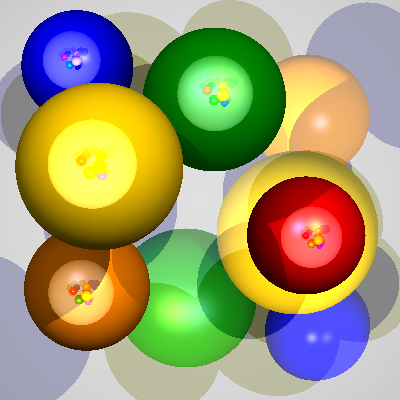
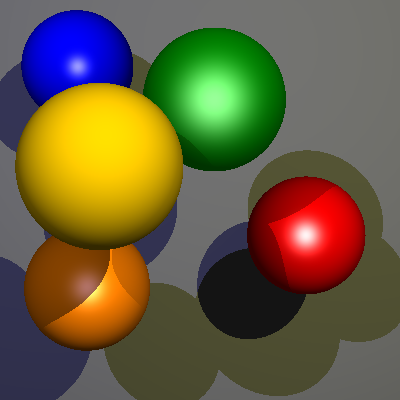
Functionify Part 2

diff --git a/RayTracer2/Code/scene.cpp b/RayTracer2/Code/scene.cpp
@@ -64,51 +64,53 @@ Color Scene::getColorAt(Material material, Point hit, Vector N, Vector V){
   for (auto lightPtr : lights) {
     Vector L = (lightPtr->position - hit).normalized();
     
-    // Detect if light in lights is line of sight with impact location
-    int isInShadow = 0;
-    Point shadowOffset = hit + (0.00001*N); // Offset to account for precision
-    Ray shadowRay = Ray(shadowOffset, L); // Create ray towards light from impact
-    ObjectPtr shadowObject = nullptr;
-    Hit min_hit(numeric_limits<double>::infinity(), Vector());
-
-    // For each object, detect if there is a collision
-    for (unsigned idx = 0; idx != objects.size(); ++idx) { 
-      Hit shadowHit(objects[idx]->intersect(shadowRay));
-      if (shadowHit.t > 0) {
-        isInShadow = 1; // If there is, set flag
-      }
-    }
-
     // If the impact is not in a shadow, add the light to color
-    if(!isInShadow){
-      // Diffuse term
-      float NdotL = NHat.dot(L);
-      float intensity = max(min(NdotL, 1.0f), 0.0f);
-      color += material.kd * intensity * material.color * (lightPtr->color);
-
-      // Specular term
-      Vector R = (2 * (NdotL)*NHat - L).normalized();
-      float VdotR = VHat.dot(R);
-      intensity = pow(max(min(VdotR, 1.0f), 0.0f), material.n);
-      color += material.ks * intensity * (lightPtr->color);
+    if( isInShadow(hit, N, L) == 0){
+      color += getDiffuseColor(material, lightPtr, N, L);
+      color += getSpecularColor(material, lightPtr, N, L, V);
     }
   }
 
   return color;
 }
 
-/*Color getReflectionColor(Ray ray, int impactsRemaining){
-    if(impactsRemaining<1)
-      return Color(0.0, 0.0, 0.0);
+Color Scene::getDiffuseColor(Material material, LightPtr lightPtr, Vector N, Vector L){
+    // Diffuse term
+  float NdotL = N.normalized().dot(L);
+  float intensity = max(min(NdotL, 1.0f), 0.0f);
+  Color color = material.kd * intensity * material.color * (lightPtr->color);
 
-      
-    // Now bounce the ray to the next impact to find the relfection color
-    // Get new vector
-    float NdotV = N.dot(ray.D.normalized());
-    Vector B = (2 * (NdotV)*NHat - (ray.D)).normalized();
+  return color;
+}
 
-    Ray bounceRay(ray.O, B);
-}*/
+Color Scene::getSpecularColor(Material material, LightPtr lightPtr, Vector N, Vector L, Vector V){
+  // Specular term
+  float NdotL = N.normalized().dot(L);
+  Vector NHat = N.normalized();
+
+  Vector R = (2 * (NdotL)*NHat - L).normalized();
+  float VdotR = V.normalized().dot(R);
+  float intensity = pow(max(min(VdotR, 1.0f), 0.0f), material.n);
+  Color color = material.ks * intensity * (lightPtr->color);
+
+  return color;
+}
+
+int Scene::isInShadow(Point hit, Vector N, Vector L){
+  Point shadowOffset = hit + (0.00001*N); // Offset to account for precision
+  Ray shadowRay = Ray(shadowOffset, L); // Create ray towards light from impact
+  ObjectPtr shadowObject = nullptr;
+  Hit min_hit(numeric_limits<double>::infinity(), Vector());
+
+  // For each object, detect if there is a collision
+  for (unsigned idx = 0; idx != objects.size(); ++idx) { 
+    Hit shadowHit(objects[idx]->intersect(shadowRay));
+    if (shadowHit.t > 0) {
+      return true; // If there is, set flag
+    }
+  }
+  return false;
+}
 
 void Scene::render(Image &img) {
   unsigned w = img.width();

diff --git a/RayTracer2/Code/scene.h b/RayTracer2/Code/scene.h
@@ -16,10 +16,13 @@ class Scene {
   std::vector<LightPtr> lights; // no ptr needed, but kept for consistency
   Point eye;
 
-private:
+protected:
   // For internal calculation of reflection light amount
-  //Color getReflectionColor(Ray out, int bouncesRemaining);
   Color getColorAt(Material material, Point hit, Vector N, Vector V);
+  int   isInShadow(Point hit, Vector N, Vector L);
+  Color getDiffuseColor(Material material, LightPtr lightPtr, Vector N, Vector L);
+  Color getSpecularColor(Material material, LightPtr lightPtr, Vector N, Vector L, Vector V);
+  Color getReflectionColor();
 
 public:
   // trace a ray into the scene and return the color
